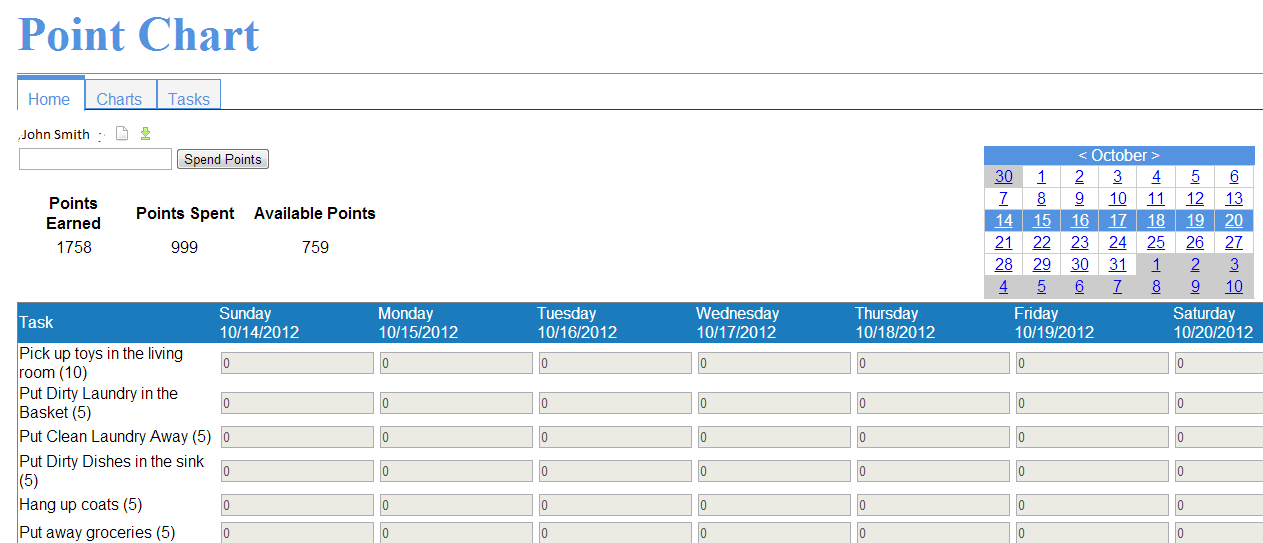
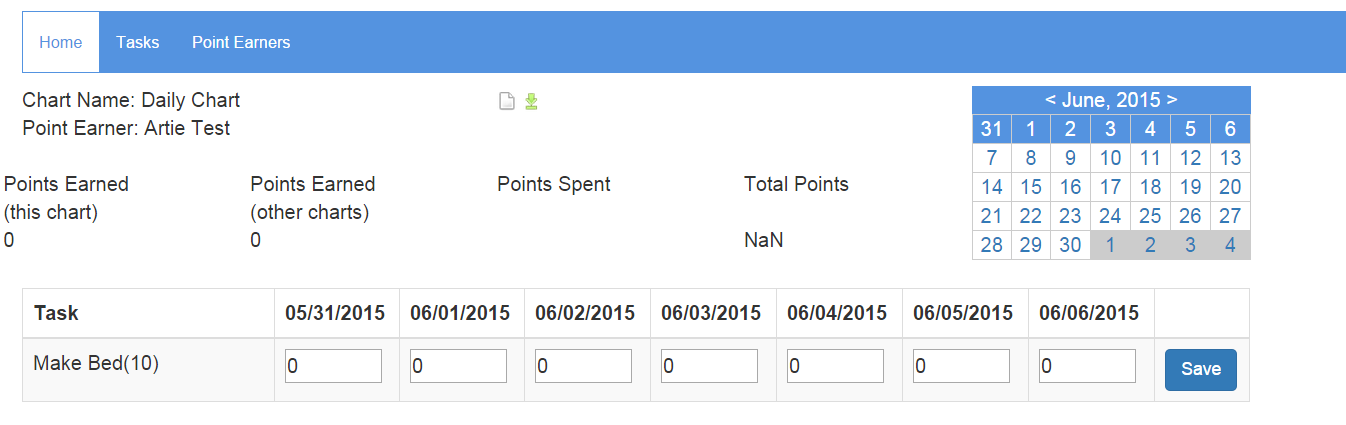
trying to fix offset of point information

diff --git a/PointChart/Web/Code/reflux/Components/PointEarnerComponents/PointsDetail.js b/PointChart/Web/Code/reflux/Components/PointEarnerComponents/PointsDetail.js
@@ -57,16 +57,16 @@ var PointsDetail = React.createClass({
         return (
             <div>
                 <div className="row">
-                    <div className="col-md-3">Points Earned<br/>(this chart)</div>
-                    <div className="col-md-3">Points Earned<br/>(other charts)</div>
-                    <div className="col-md-3">Points Spent</div>
-                    <div className="col-md-3">Total Points</div>
+                    <div className="col-md-2">Points Earned<br/>(this chart)</div>
+                    <div className="col-md-2">Points Earned<br/>(other charts)</div>
+                    <div className="col-md-2">Points Spent</div>
+                    <div className="col-md-2">Total Points</div>
                 </div>
                 <div className="row">
-                    <div className="col-md-3">{this.getCurrentChartPointsEarned()}</div>
-                    <div className="col-md-3">{this.getOtherChartPointsEarned()}</div>
-                    <div className="col-md-3">{this.state.pointsDetail.PointsSpent}</div>
-                    <div className="col-md-3">{(this.getCurrentChartPointsEarned() + this.getOtherChartPointsEarned()) - this.state.pointsDetail.PointsSpent}</div>
+                    <div className="col-md-2">{this.getCurrentChartPointsEarned()}</div>
+                    <div className="col-md-2">{this.getOtherChartPointsEarned()}</div>
+                    <div className="col-md-2">{this.state.pointsDetail.PointsSpent}</div>
+                    <div className="col-md-2">{(this.getCurrentChartPointsEarned() + this.getOtherChartPointsEarned()) - this.state.pointsDetail.PointsSpent}</div>
                 </div>
             </div>
         );

diff --git a/PointChart/Web/Code/reflux/apps/CollectPointsApp.js b/PointChart/Web/Code/reflux/apps/CollectPointsApp.js
@@ -56,7 +56,7 @@ var CollectPointsApp = React.createClass({
         return "/Export/Empty/" + this.state.currentChart.Id + "?fileType=excel";
     },
 
-    getExportCompletedyUrl: function(){
+    getExportCompletedUrl: function(){
         return "/Export/Completed/" + this.state.currentChart.Id + "/" + this.props.selectedDate.getFullYear() + "/" + (this.props.selectedDate.getMonth() + 1) + "/" + (this.props.selectedDate.getDate()) + "?fileType=excel";
     },
 
@@ -70,11 +70,11 @@ var CollectPointsApp = React.createClass({
                             <div className="col-md-2">
                                 <a href={this.getExportEmptyUrl()}><img src="/Content/images/paper_white.png" alt="Export Empty" /></a>
                                 &nbsp;
-                                <a href={this.getExportCompletedyUrl()}><img src="/Content/images/download.png" alt="Download" /></a>
+                                <a href={this.getExportCompletedUrl()}><img src="/Content/images/download.png" alt="Download" /></a>
                             </div>
                         </div>
                         <div className="row">
-                            <div className="col-md-12">Point Earner: {this.getPointEarnerName()}</div>
+                            <div className="col-md-8">Point Earner: {this.getPointEarnerName()}</div>
                         </div>
                         <br/>
                         <div className="row">
